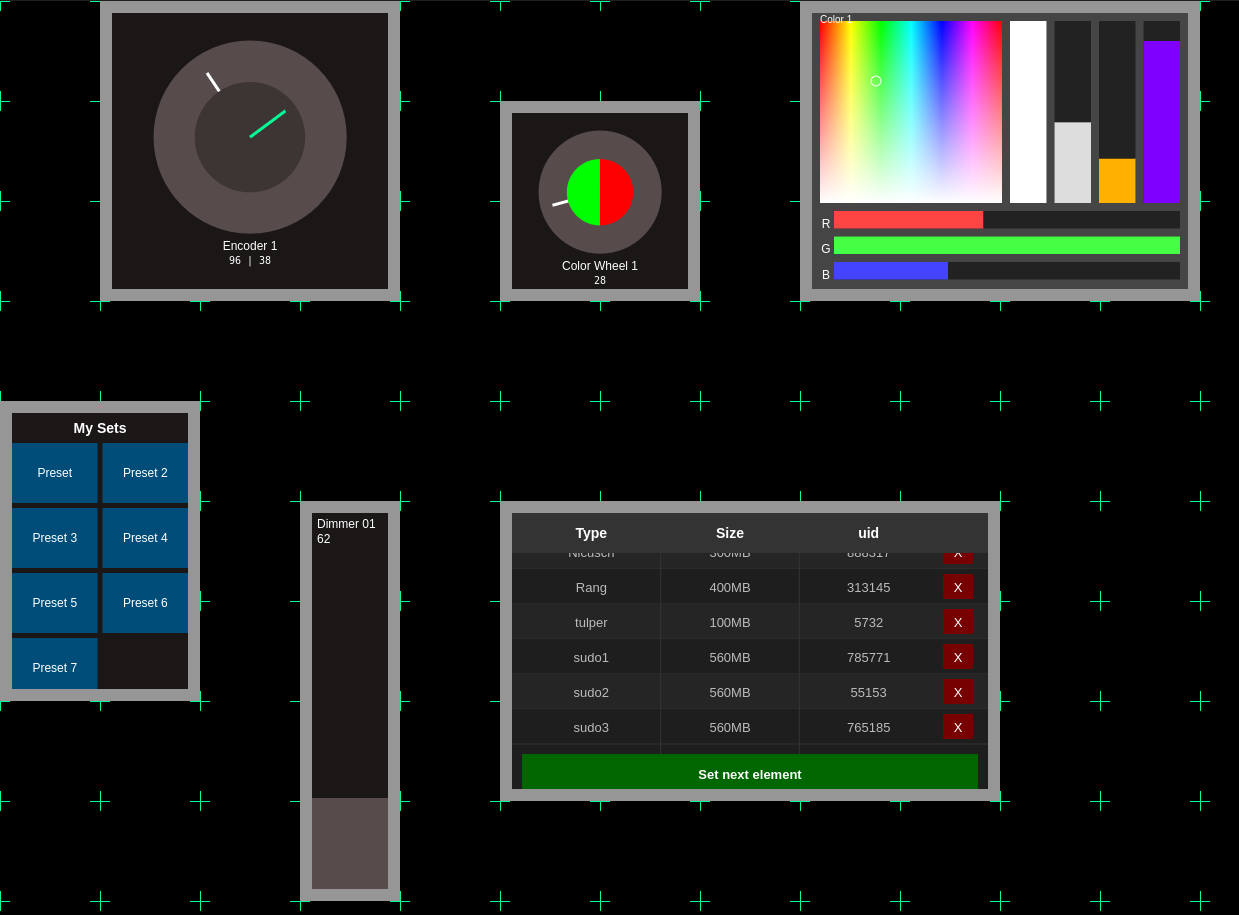
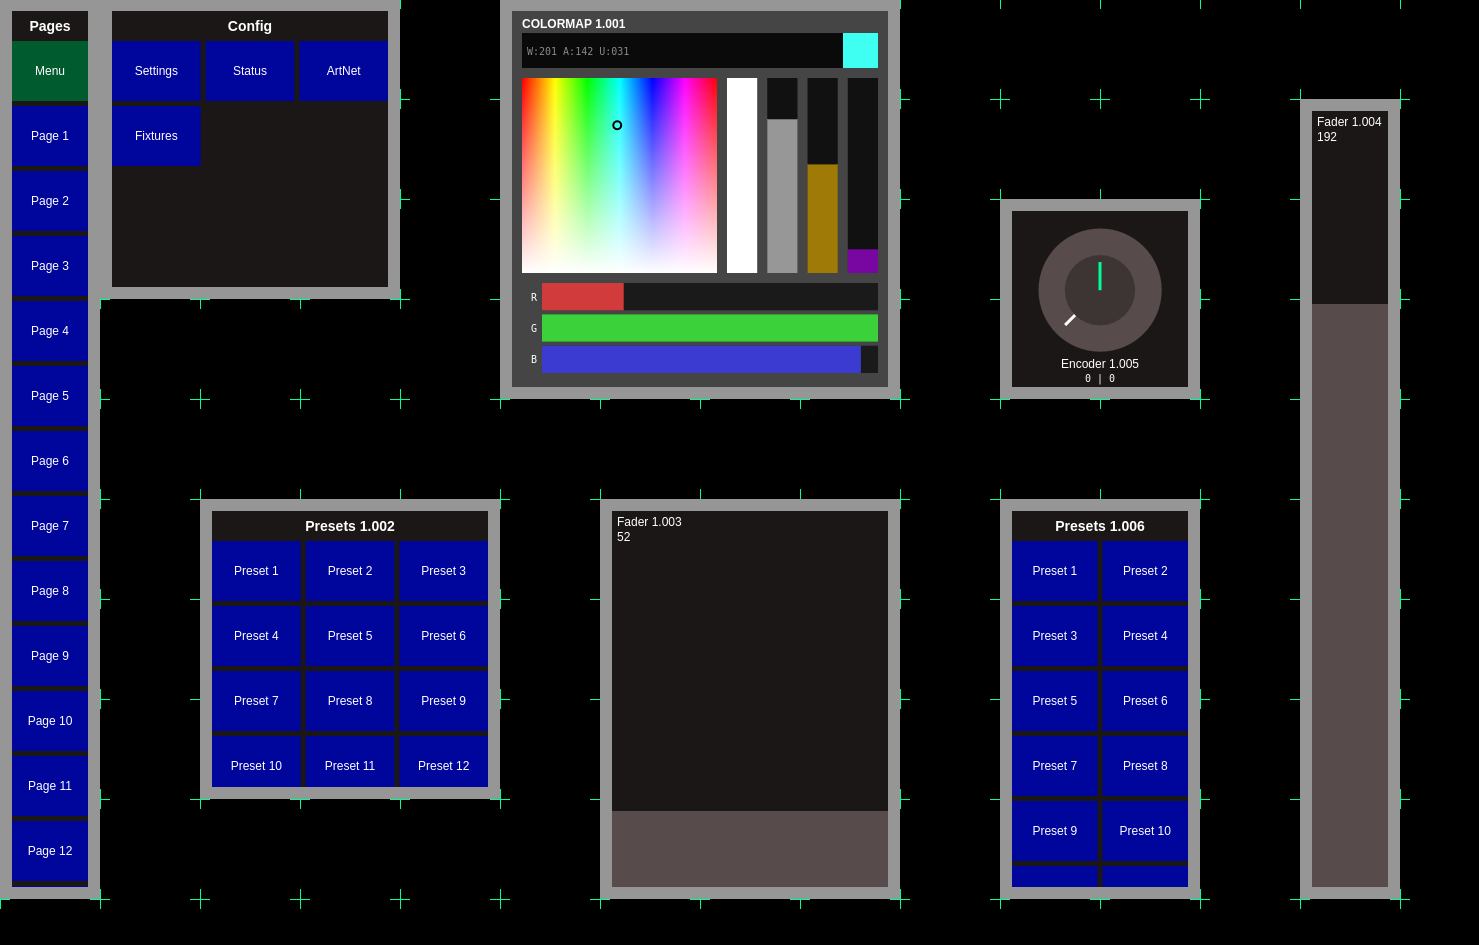
update

diff --git a/public/hcw/hcw-window.js b/public/hcw/hcw-window.js
@@ -173,65 +173,104 @@ class HCWWindow {
     static resolveCollisions(activeWindow) {
         if (!activeWindow || activeWindow.hidden) return;
 
-        let processed = new Set();
-        let queue = [activeWindow];
+        if (typeof HCWGridSnap !== 'undefined' && typeof HCWGridSnap.updateWindows === 'function') {
+            HCWGridSnap.updateWindows();
+        }
 
-        let iterations = 0;
-        const maxIterations = 100;
+        const gridX = (typeof HCW !== 'undefined' && HCW.grid && HCW.grid.pointDistanceX) ? HCW.grid.pointDistanceX : 100;
+        const gridY = (typeof HCW !== 'undefined' && HCW.grid && HCW.grid.pointDistanceY) ? HCW.grid.pointDistanceY : 100;
 
-        const gridX = (typeof HCW !== 'undefined' && HCW.grid && HCW.grid.pointDistanceX) ? HCW.grid.pointDistanceX : 0;
-        const gridY = (typeof HCW !== 'undefined' && HCW.grid && HCW.grid.pointDistanceY) ? HCW.grid.pointDistanceY : 0;
+        const maxPasses = 50;
 
-        while (queue.length > 0 && iterations < maxIterations) {
-            let current = queue.shift();
-            processed.add(current);
-            iterations++;
+        for (let pass = 0; pass < maxPasses; pass++) {
+            let anyOverlap = false;
 
-            const currentCenter = current.getCenter();
+            const visibleWindows = HCW.windows.filter(w => !w.hidden);
+            if (visibleWindows.length <= 1) break;
 
-            HCW.windows.forEach(other => {
-                if (other.hidden || other === current || processed.has(other)) return;
+            for (let i = 0; i < visibleWindows.length; i++) {
+                const w1 = visibleWindows[i];
 
-                if (current.checkOverlap(other)) {
-                    other.sx = Math.max(other.sx, other.minsizex || 0);
-                    other.sy = Math.max(other.sy, other.minsizey || 0);
+                for (let j = 0; j < visibleWindows.length; j++) {
+                    if (i === j) continue;
+                    const w2 = visibleWindows[j];
 
-                    let rightX = current.x + current.sx;
-                    if (gridX > 0) rightX = Math.ceil(rightX / gridX) * gridX;
+                    if (w2 === activeWindow) continue;
 
-                    let leftX = current.x - other.sx;
-                    if (gridX > 0) leftX = Math.floor(leftX / gridX) * gridX;
+                    if (w1.checkOverlap(w2)) {
+                        anyOverlap = true;
 
-                    let downY = current.y + current.sy;
-                    if (gridY > 0) downY = Math.ceil(downY / gridY) * gridY;
+                        w2.sx = Math.max(w2.sx, w2.minsizex || 0);
+                        w2.sy = Math.max(w2.sy, w2.minsizey || 0);
 
-                    let upY = current.y - other.sy;
-                    if (gridY > 0) upY = Math.floor(upY / gridY) * gridY;
+                        const c1 = w1.getCenter();
+                        const c2 = w2.getCenter();
 
-                    const otherCenter = other.getCenter();
+                        const prefRight = c2.x >= c1.x;
+                        const prefDown = c2.y >= c1.y;
 
-                    let candX = (otherCenter.x >= currentCenter.x) ? rightX : leftX;
-                    let candY = (otherCenter.y >= currentCenter.y) ? downY : upY;
+                        const candidates = [];
 
-                    if (candX < 0) candX = rightX;
-                    if (candY < 0) candY = downY;
+                        // 1. Right
+                        let rightX = Math.ceil((w1.x + w1.sx) / gridX) * gridX;
+                        let scoreRight = Math.abs(rightX - w2.x) - (prefRight ? 0.1 * gridX : 0);
+                        if (activeWindow && activeWindow !== w2 &&
+                            rightX < activeWindow.x + activeWindow.sx && rightX + w2.sx > activeWindow.x &&
+                            w2.y < activeWindow.y + activeWindow.sy && w2.y + w2.sy > activeWindow.y) {
+                            scoreRight += 10000;
+                        }
+                        candidates.push({ x: rightX, y: w2.y, score: scoreRight });
 
-                    const distX = Math.abs(candX - other.x);
-                    const distY = Math.abs(candY - other.y);
+                        // 2. Left
+                        let leftX = Math.floor((w1.x - w2.sx) / gridX) * gridX;
+                        if (leftX >= 0) {
+                            let scoreLeft = Math.abs(leftX - w2.x) - (!prefRight ? 0.1 * gridX : 0);
+                            if (activeWindow && activeWindow !== w2 &&
+                                leftX < activeWindow.x + activeWindow.sx && leftX + w2.sx > activeWindow.x &&
+                                w2.y < activeWindow.y + activeWindow.sy && w2.y + w2.sy > activeWindow.y) {
+                                scoreLeft += 10000;
+                            }
+                            candidates.push({ x: leftX, y: w2.y, score: scoreLeft });
+                        }
 
-                    if (distX <= distY) {
-                        other.x = candX;
-                    } else {
-                        other.y = candY;
+                        // 3. Down
+                        let downY = Math.ceil((w1.y + w1.sy) / gridY) * gridY;
+                        let scoreDown = Math.abs(downY - w2.y) - (prefDown ? 0.1 * gridY : 0);
+                        if (activeWindow && activeWindow !== w2 &&
+                            w2.x < activeWindow.x + activeWindow.sx && w2.x + w2.sx > activeWindow.x &&
+                            downY < activeWindow.y + activeWindow.sy && downY + w2.sy > activeWindow.y) {
+                            scoreDown += 10000;
+                        }
+                        candidates.push({ x: w2.x, y: downY, score: scoreDown });
+
+                        // 4. Up
+                        let upY = Math.floor((w1.y - w2.sy) / gridY) * gridY;
+                        if (upY >= 0) {
+                            let scoreUp = Math.abs(upY - w2.y) - (!prefDown ? 0.1 * gridY : 0);
+                            if (activeWindow && activeWindow !== w2 &&
+                                w2.x < activeWindow.x + activeWindow.sx && w2.x + w2.sx > activeWindow.x &&
+                                upY < activeWindow.y + activeWindow.sy && upY + w2.sy > activeWindow.y) {
+                                scoreUp += 10000;
+                            }
+                            candidates.push({ x: w2.x, y: upY, score: scoreUp });
+                        }
+
+                        candidates.sort((a, b) => a.score - b.score);
+
+                        const best = candidates[0];
+                        if (best) {
+                            w2.x = best.x;
+                            w2.y = best.y;
+
+                            if (typeof w2._calculateTouchZones === 'function') w2._calculateTouchZones();
+                            if (typeof w2._calculateBoundingBox === 'function') w2._calculateBoundingBox();
+                            if (typeof w2._calculateContextWindow === 'function') w2._calculateContextWindow();
+                        }
                     }
-
-                    other._calculateTouchZones();
-                    other._calculateBoundingBox();
-                    other._calculateContextWindow();
-
-                    queue.push(other);
                 }
-            });
+            }
+
+            if (!anyOverlap) break;
         }
     }
 

diff --git a/readme.md b/readme.md
@@ -10,9 +10,14 @@ I am working on a new way on how the entire backbone code will work
 
 ## Current images
 
-![example-1](https://raw.githubusercontent.com/Nicuschgifthub/Html-Canvas-Window-Manager/main/_images/latest.png)
+![Current-example](https://raw.githubusercontent.com/Nicuschgifthub/Html-Canvas-Window-Manager/main/_images/latest.png)
 
-## Old images of working ./old-v1
+![Current-example](https://raw.githubusercontent.com/Nicuschgifthub/Html-Canvas-Window-Manager/main/_images/add-window.png)
+![Current-example](https://raw.githubusercontent.com/Nicuschgifthub/Html-Canvas-Window-Manager/main/_images/edit-window.png)
+![Current-example](https://raw.githubusercontent.com/Nicuschgifthub/Html-Canvas-Window-Manager/main/_images/edit-color-value.png)
+![Current-example](https://raw.githubusercontent.com/Nicuschgifthub/Html-Canvas-Window-Manager/main/_images/edit-location.png)
+
+## Images of the first test
 
 ![example-2](https://raw.githubusercontent.com/Nicuschgifthub/Html-Canvas-Window-Manager/main/_images/config-old.png)
 
